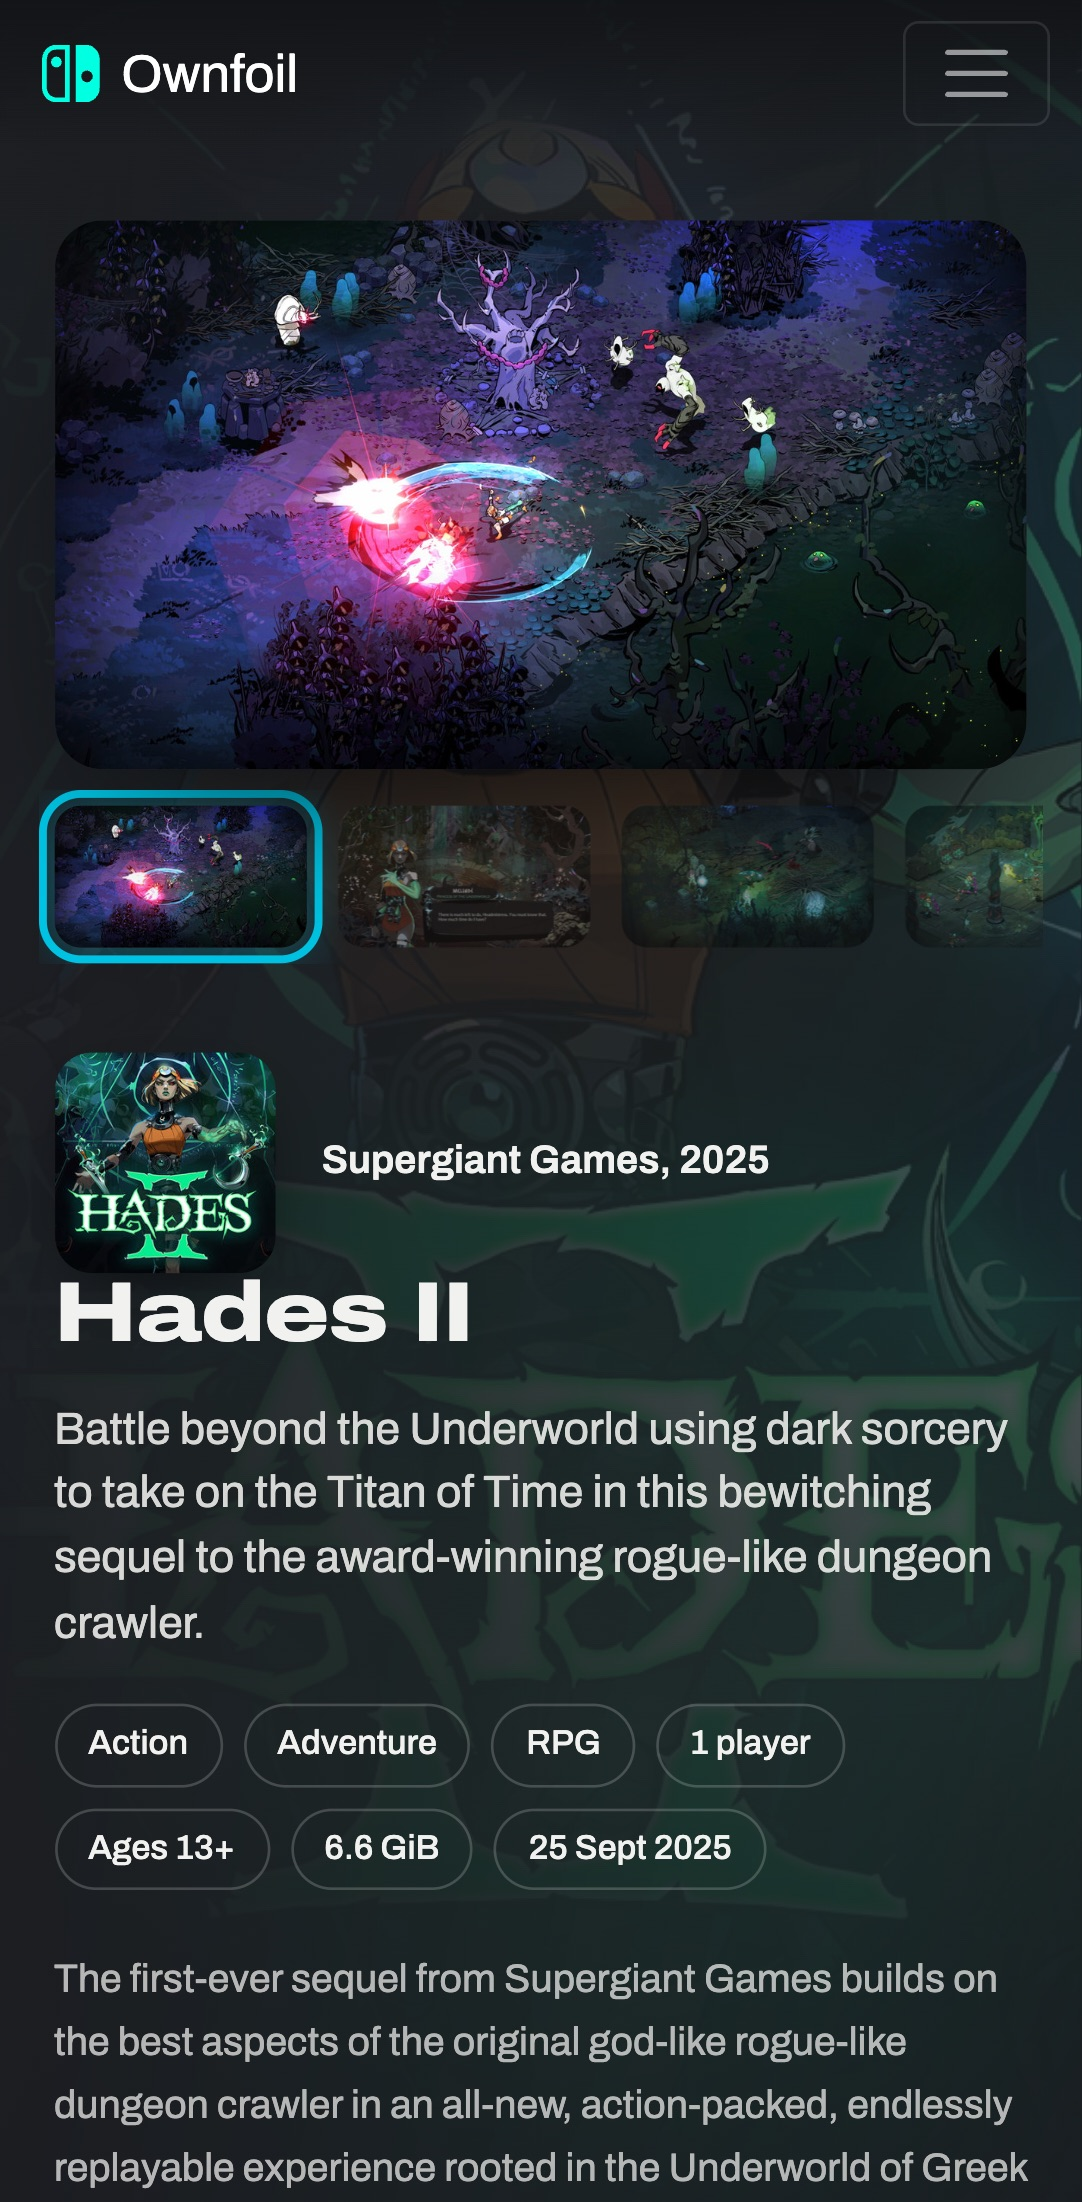
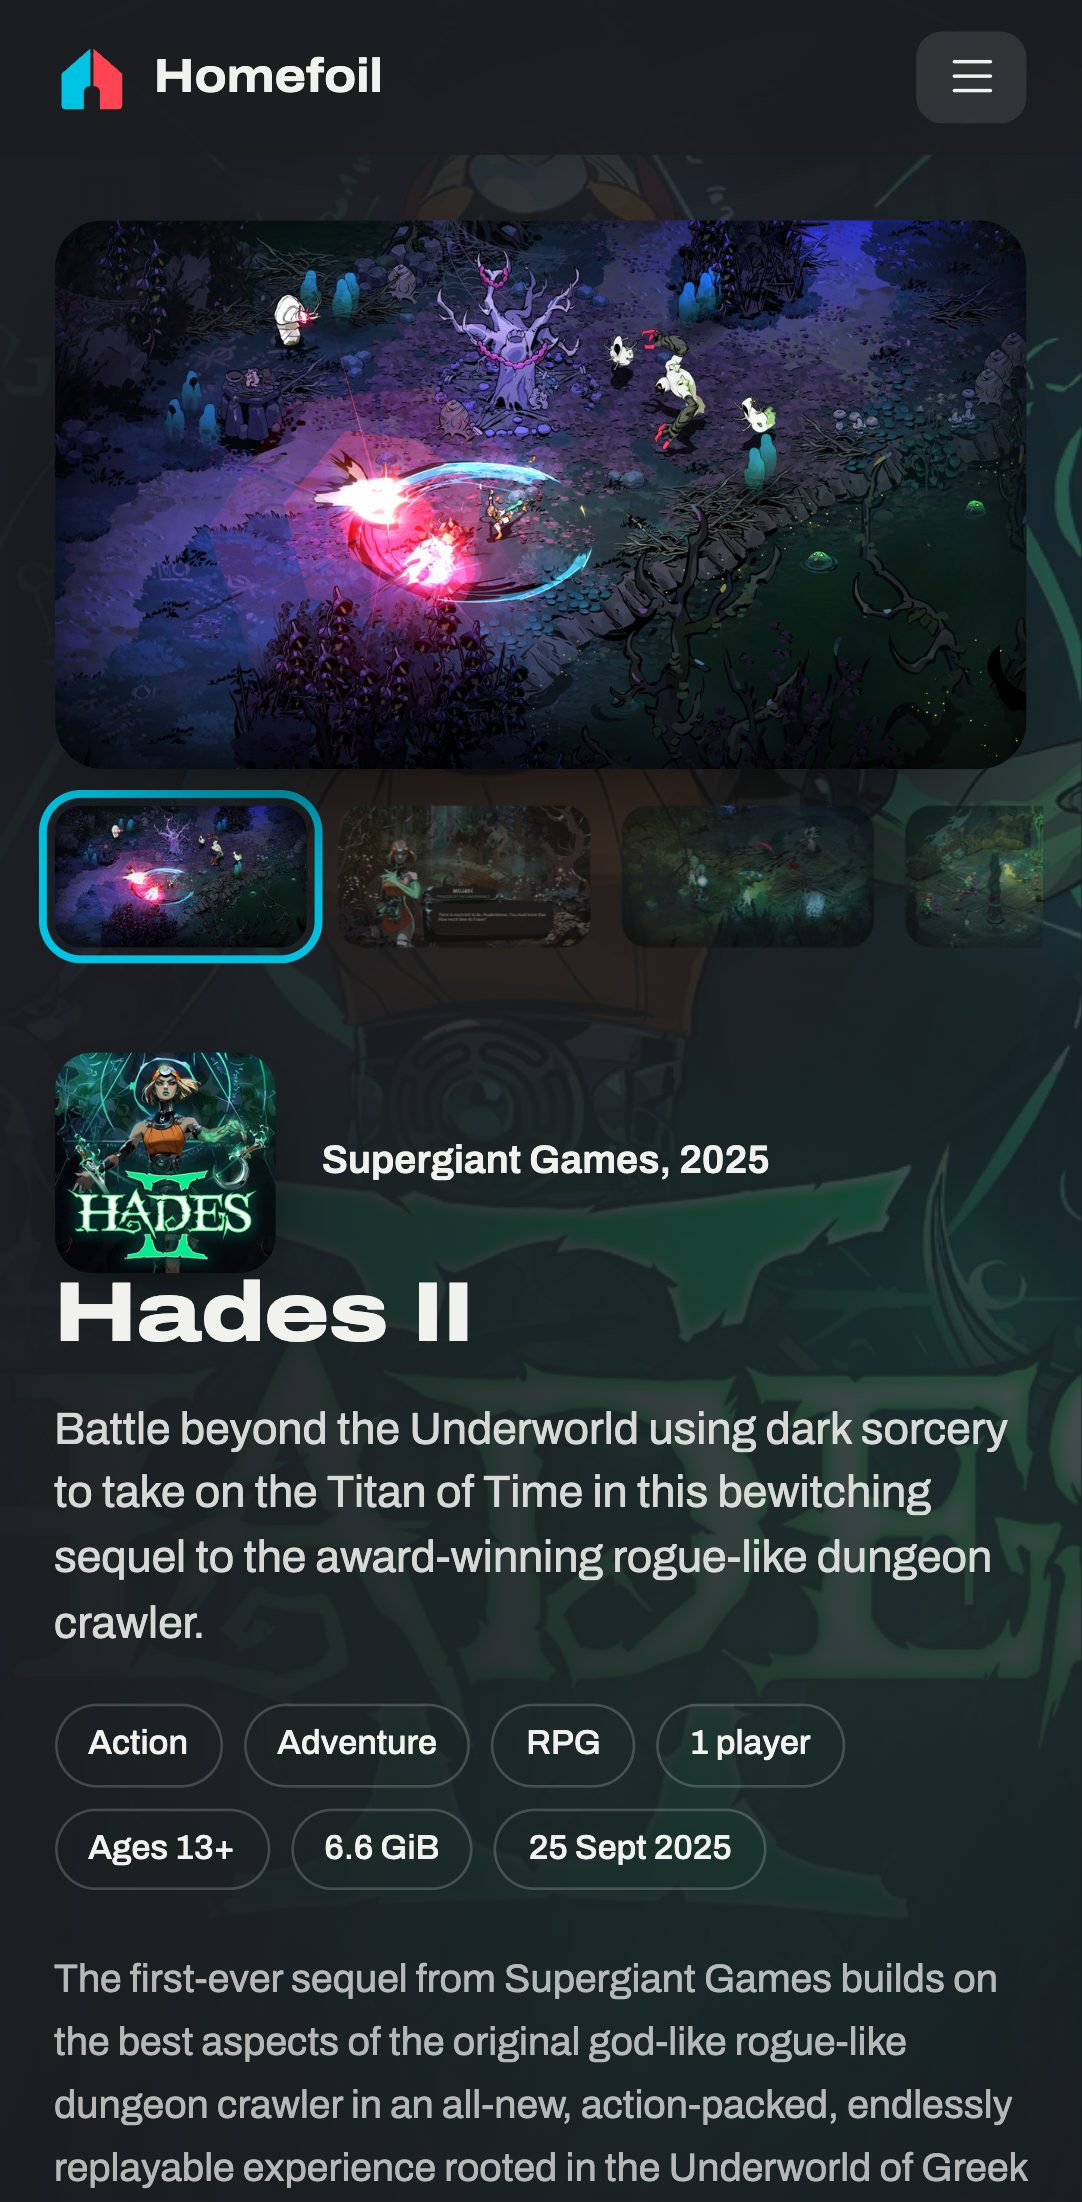
docs: README for Homefoil, admin/admin login, new screenshots

diff --git a/README.md b/README.md
@@ -1,8 +1,8 @@
 <p align="center">
-  <img src="app/static/logo/logo-256.png" width="112" alt="Ownfoil">
+  <img src="app/static/logo/logo-256.png" width="112" alt="Homefoil">
 </p>
 
-<h1 align="center">Ownfoil</h1>
+<h1 align="center">Homefoil</h1>
 
 <p align="center">
   <b>Your Switch library, as a store you run at home.</b>
@@ -12,10 +12,10 @@
   <b><a href="#install">Install</a></b> ·
   <a href="#add-it-to-your-switch">Add to Switch</a> ·
   <a href="https://github.com/a1ex4/ownfoil">Upstream</a> ·
-  <a href="https://github.com/cobanov/ownfoil/issues">Issues</a>
+  <a href="https://github.com/cobanov/homefoil/issues">Issues</a>
 </p>
 
-> A fork of [a1ex4/ownfoil](https://github.com/a1ex4/ownfoil), going its own way.
+> A fork of [a1ex4/ownfoil](https://github.com/a1ex4/ownfoil), going its own way under a new name.
 > Same shop, settings and database. New web interface and many fixes.
 
 <p align="center">
@@ -26,15 +26,22 @@
   <a href="docs/screenshots/library-phone.jpg"><img src="docs/screenshots/library-phone.jpg" width="24%" alt="The library on a phone"></a>
   <a href="docs/screenshots/title-phone.jpg"><img src="docs/screenshots/title-phone.jpg" width="24%" alt="A game page on a phone"></a>
 </p>
+<p align="center">
+  <a href="docs/screenshots/setup.jpg"><img src="docs/screenshots/setup.jpg" width="49%" alt="The Setup page"></a>
+  <a href="docs/screenshots/admin.jpg"><img src="docs/screenshots/admin.jpg" width="49%" alt="The admin settings"></a>
+</p>
 
 ## What's new
 
-- Store-style library. Hover a game, it fills the top of the page.
+- Store-style library. The top card cycles through your games; hover one to show it there.
 - Search, genre filters, **Update available**, **Missing DLC** and sorting.
 - One-screen game page: artwork, facts, screenshots, what you own.
+- Setup page with copy-ready values for Sphaira, Tinfoil and CyberFoil.
+- Admin pages rebuilt: one card per topic, one list of what needs attention.
 - Works on phones.
+- First start: log in with admin / admin, then pick a new password.
 - No requests to outside services. Even the font is served locally.
-- Everything else is Ownfoil: shop for Tinfoil, Sphaira and CyberFoil, file identification,
+- Everything else comes from Ownfoil: shop for Tinfoil, Sphaira and CyberFoil, file identification,
   organizing, verifying, compressing, several users.
 
 ## What this fork fixes
@@ -52,7 +59,7 @@
 - Deleted users stay logged out.
 - The last admin can't be deleted.
 - File names can't run code on the Tasks page.
-- Login only redirects inside Ownfoil.
+- Login only redirects inside Homefoil.
 - Login doesn't reveal user names. Wrong passwords wait a second.
 - SameSite cookies, checked key uploads, same-site live updates.
 - Secure random key for Tinfoil.
@@ -73,12 +80,10 @@ You need Docker.
 
 1. Get the code.
    ```sh
-   git clone https://github.com/cobanov/ownfoil
-   cd ownfoil
+   git clone https://github.com/cobanov/homefoil
+   cd homefoil
    ```
-2. Edit `docker-compose.yml`:
-   - Replace `/your/game/directory` with your games folder.
-   - Uncomment `USER_ADMIN_NAME` and `USER_ADMIN_PASSWORD`, set your own.
+2. In `docker-compose.yml`, replace `/your/game/directory` with your games folder.
 3. Add your console keys.
    ```sh
    mkdir -p config && cp /path/to/prod.keys config/keys.txt
@@ -87,7 +92,8 @@ You need Docker.
    ```sh
    docker compose up -d --build
    ```
-5. Open `http://<server-ip>:8465`. Your games show up after the first scan.
+5. Open `http://<server-ip>:8465`, log in with **admin** / **admin**.
+6. Pick a new password. Your games show up after the first scan.
 
 No keys yet? Upload them later in **Settings → Titles**.
 
@@ -95,10 +101,10 @@ Update with `git pull && docker compose up -d --build`.
 
 ## Add it to your Switch
 
-Ownfoil's **Setup** page shows the exact values for your server.
+The **Setup** page shows the exact values for your server.
 
 **Sphaira** (recommended)
-1. **Menu → Menus → Ownfoil**.
+1. **Menu → Menus → Ownfoil**. Sphaira still calls it Ownfoil.
 2. **Discover local servers**, pick your shop.
 
 **Tinfoil**
@@ -111,12 +117,12 @@ Ownfoil's **Setup** page shows the exact values for your server.
    | Host | your server's IP |
    | Port | `8465` |
    | Path | `/` |
-   | Username, Password | your Ownfoil user |
+   | Username, Password | your Homefoil user |
    | Title | anything |
 
 **CyberFoil**
 1. **Settings → Shop → Add new shop**.
-2. Protocol `HTTP`, your server's IP, port `8465`, your Ownfoil user.
+2. Protocol `HTTP`, your server's IP, port `8465`, your Homefoil user.
 
 More in [Usage.md](Usage.md).
 
